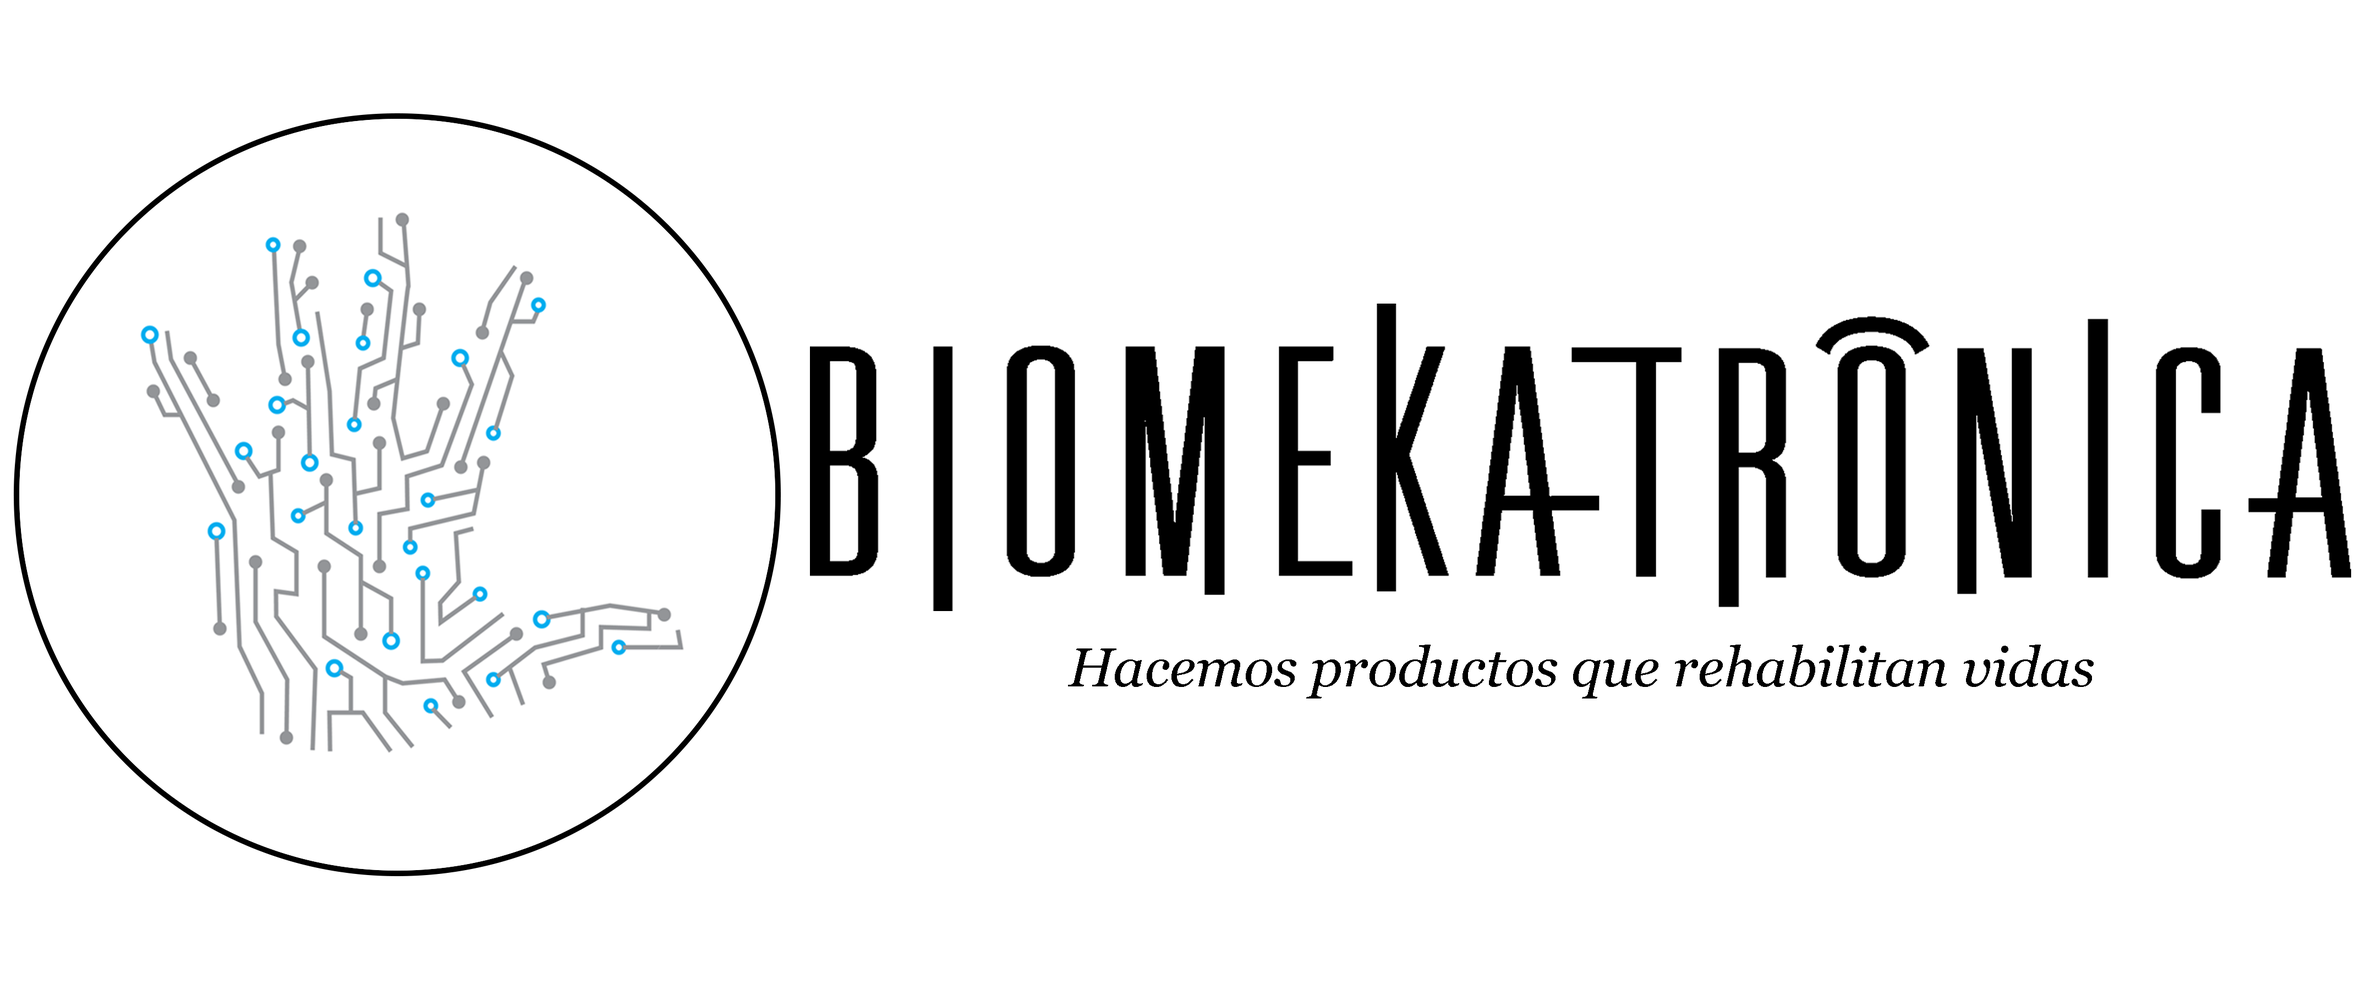
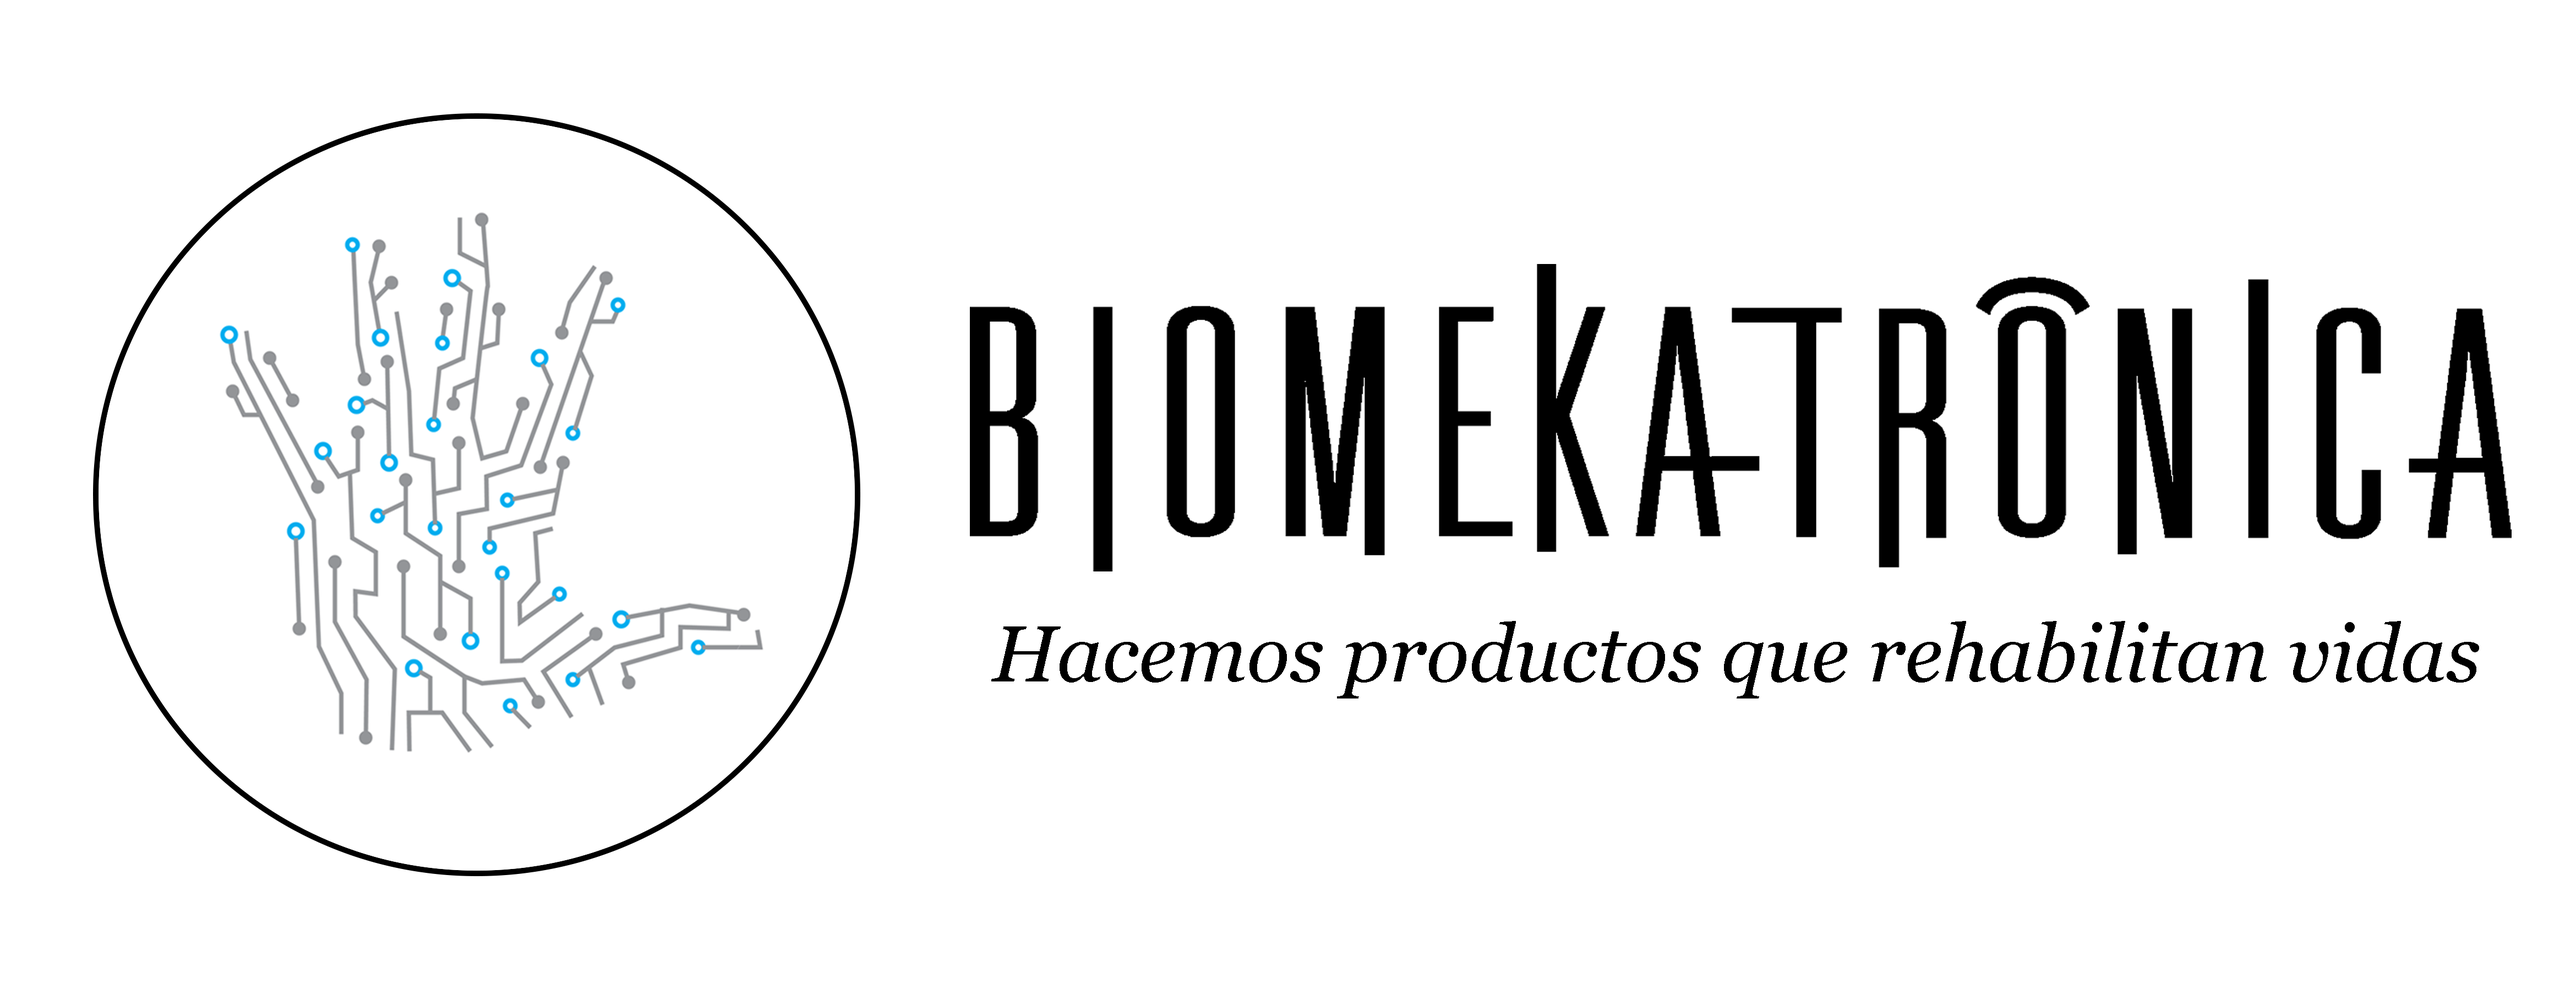
Last Changes

diff --git a/index.html b/index.html
@@ -98,19 +98,19 @@
       <section id="quienes-somos">
         <div class="inner-section" style="background:#eaeaea;">
           <div class="container">
-            <h2 style="text-align: center">
+            <h1 style="text-align: center">
               ¿Quiénes somos?
-            </h2>
+            </h1>
             <p>
               Somos un grupo de profesionales altamente motivados hacia la atención de pacientes con alguna necesidad médica,
               primordialmente ortopédica, la cual afrontamos desde nuestros productos y servicios, que a su vez basamos en la
               investigación y desarrollo que hacemos a diario. Nos gusta crear, nos gusta innovar y nos gusta ayudar, por eso
-              nos esmeramos en conocer, para luego satisfacer, las necesidades de nuestros clientes. 
+              nos esmeramos en conocer, para luego satisfacer, las necesidades de nuestros clientes.
             </p>
           </div>
           <div class="container" style="text-align: center; margin: 30px auto;">
-            <div class="col-md-6 col-sm-12">
-              <div class="col-md-6 col-sm-6" style="display: inline-block">
+            <div class="col-md-12 col-sm-12">
+              <div class="col-md-4 col-sm-4" style="display: inline-block">
                 <div class="marco-foto torrealba">
                 </div>
                 <div>
@@ -126,24 +126,7 @@
                   </p>
                 </div>
               </div>
-              <div class="col-md-6 col-sm-6" style="display: inline-block">
-                <div class="marco-foto arturo">
-                </div>
-                <div>
-                  <h3>
-                    Arturo Rivas 
-                  </h3>
-                  <h4>
-                    Ingeniero Mecánico, Departamento de Impresión 3D
-                  </h4>
-                  <p>
-                    Se encarga del desarrollo de productos ortoprotésicos mediante el uso de escaner 3D, software CAD e impresión 3D (FDM)
-                  </p>
-                </div>
-              </div>
-            </div>
-            <div class="col-md-6 col-sm-12">
-              <div class="col-md-6 col-sm-6" style="display: inline-block">
+              <div class="col-md-4 col-sm-4" style="display: inline-block">
                 <div class="marco-foto randall">
                 </div>
                 <div>
@@ -154,12 +137,12 @@
                     Diseño y Manufactura de Prótesis de Miembro Superior
                   </h4>
                   <p>
-                    Se encarga del diseño y parametrización de prótesis para amputados de miembro superior. 
+                    Se encarga del diseño y parametrización de prótesis para amputados de miembro superior.
                   </p>
                 </div>
               </div>
-              <div class="col-md-6 col-sm-6" style="display: inline-block">
-                <div class="marco-foto randall">
+              <div class="col-md-4 col-sm-4" style="display: inline-block">
+                <div class="marco-foto roman">
                 </div>
                 <div>
                   <h3>
@@ -169,7 +152,7 @@
                     Diseño y Manufactura de Prótesis de Miembro Inferior
                   </h4>
                   <p>
-                    Se encarga del diseño y parametrización de prótesis para amputados de miembro inferior. 
+                    Se encarga del diseño y parametrización de prótesis para amputados de miembro inferior.
                   </p>
                 </div>
               </div>
@@ -181,13 +164,13 @@
         <div class="inner-section">
           <div class="container">
             <div class="col-md-7 col-sm-7">
-              <h2 style="text-align: center;">
+              <h1 style="text-align: center;">
                 Misión
-              </h2>
+              </h1>
               <p style="text-align: justify;">
                 Nacimos con el objetivo de desarrollar productos y servicios orto-protésicos y dispositivos médicos en general para que,
                 en constante aprendizaje junto con profesionales de la salud, podamos mejorar la calidad de vida de los pacientes,
-                disminuir el tiempo de rehabilitación, y así, facilitarles el regreso a sus actividades cotidianas. 
+                disminuir el tiempo de rehabilitación, y así, facilitarles el regreso a sus actividades cotidianas.
               </p>
             </div>
             <div class="col-md-5 col-sm-5 mision-image"></div>
@@ -196,9 +179,9 @@
           <div class="container">
             <div class="col-md-5 col-sm-5 vision-image"></div>
             <div class="col-md-7 col-sm-7">
-              <h2 style="text-align: center;">
+              <h1 style="text-align: center;">
                 Visión
-              </h2>
+              </h1>
               <p style="text-align: justify;">
                 Ser el principal proveedor de servicios de tecnología médica en Venezuela,
                 ofreciendo productos originales del más alto nivel de calidad y desempeño,
@@ -209,9 +192,9 @@
 
           <div class="container">
             <div>
-              <h2 style="text-align: center;">
+              <h1 style="text-align: center;">
                 Valores
-              </h2>
+              </h1>
               <div class="col-md-12 col-sm-12" style="font-size: 20px; margin: 0 0 20px">
                 <div class="col-md-4 col-sm-4" style="text-align: center;">
                   <span class="fa fa-check" style="color: #4db8ff"></span> Servicio
@@ -242,9 +225,9 @@
       <section id="contacto">
         <div class="inner-section" style="background:#eaeaea;">
           <div class="container" style="text-align: center;">
-             <h2>
+             <h1>
                Contacto
-            </h2>
+            </h1>
             <p>
               Envíanos un correo con tus preguntas
             </p>
@@ -310,11 +293,8 @@
               Contactos
             </h4>
             <p>
-              Tel. +58 212 906.4234 / +58 424 186.6561<br>
-              biomekatronica.ve@gmail.com<br>
-              rtorrealba@usb.ve<br>
-              arturojoserivas@gmail.com<br>
-              vivianartinoco@gmail.com<br>
+              Tel. +58 212 906.4234 / +58 212 9064084<br>
+              <div class="contactos"></div>
             </p>
           </div>
           <div class="col-md-12 col-sm-12" style="text-align: center; margin-top:30px;">

diff --git a/css/main.css b/css/main.css
@@ -17,9 +17,13 @@ h1, h2, h3, h4 {
   font-family: 'Ubuntu Condensed', sans-serif;
 }
 
+h1 {
+  font-size: 42px;
+}
+
 .header {
   position: fixed;
-  height: 100px;
+  height: 120px;
   width: 100%;
   top: 0;
   left: 0;
@@ -30,7 +34,7 @@ h1, h2, h3, h4 {
 .navbar {
   display: inline-block;
   float: right;
-  padding: 40px 0;
+  padding: 50px 0;
 }
 
 .navbar a {
@@ -48,12 +52,12 @@ h1, h2, h3, h4 {
   height: calc(100% - 10px);
 }
 
-section:before { 
-  display: block; 
-  content: " "; 
-  margin-top: -100px; 
-  height: 100px; 
-  visibility: hidden; 
+section:before {
+  display: block;
+  content: " ";
+  margin-top: -100px;
+  height: 100px;
+  visibility: hidden;
 }
 
 .inner-section {
@@ -74,7 +78,7 @@ section:before {
 }
 
 .marco-logo {
-  height: 90px;
+  height: 100px;
   width: 300px;
   display: inline-block;
   background: url("../images/Biomekatronica.png") no-repeat center center;
@@ -119,8 +123,8 @@ section:before {
   background-size: contain;
 }
 
-.samuel {
-  background: url("../images/Samuel.jpg") no-repeat center center;
+.roman {
+  background: url("../images/Roman.jpg") no-repeat center center;
   background-size: contain;
 }
 
@@ -152,22 +156,30 @@ section:before {
 }
 
 .usb {
-  background: url("../images/USB.jpg") no-repeat center center;
+  background: url("../images/USB.png") no-repeat center center;
   background-size: contain;
+  cursor: pointer;
   height: 70px;
 }
 .pts {
   background: url("../images/PTS.jpg") no-repeat center center;
   background-size: contain;
+  cursor: pointer;
   height: 70px;
 }
 .biomecanica {
   background: url("../images/BiomecanicaUSB.jpg") no-repeat center center;
   background-size: contain;
+  cursor: pointer;
   height: 70px;
 }
 .biotecpro {
   background: url("../images/Biotecpro.jpg") no-repeat center center;
   background-size: contain;
   height: 70px;
+}
+.contactos {
+  background: url("../images/Correoimagen.png") no-repeat -10px center;
+  background-size: 250px;
+  height: 100px;
 }
